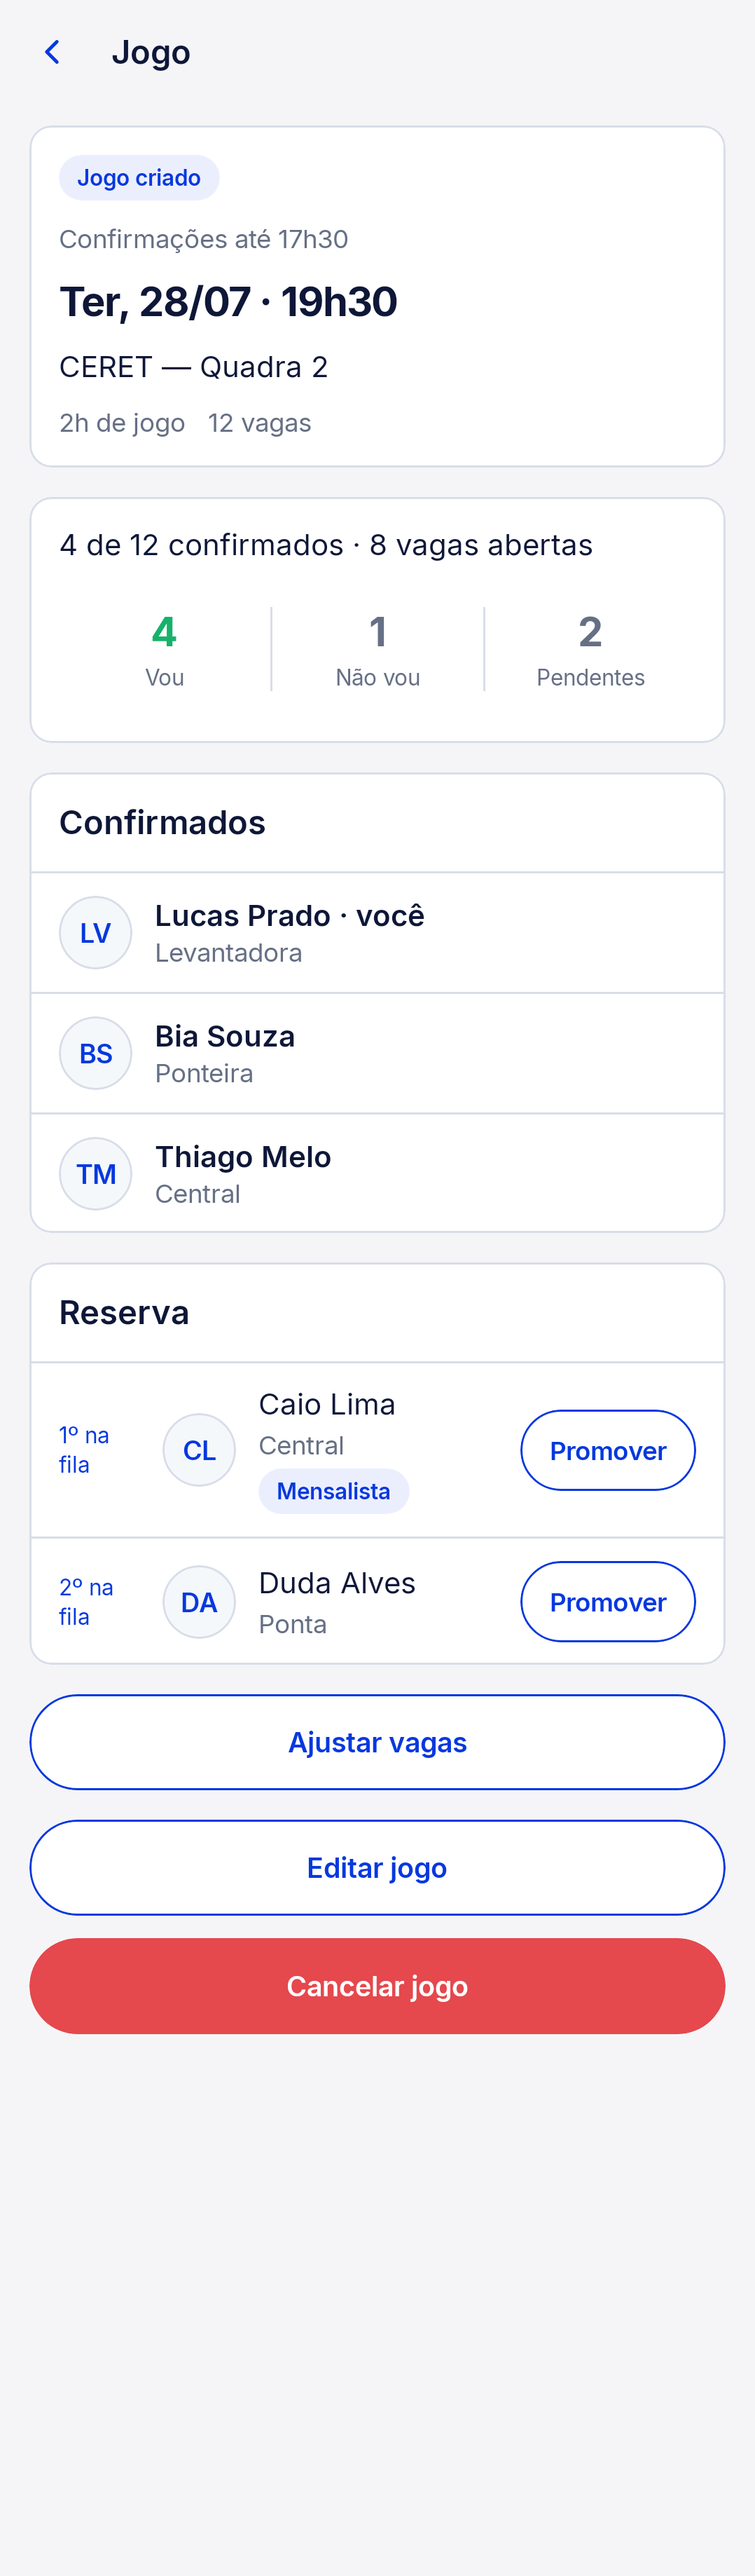
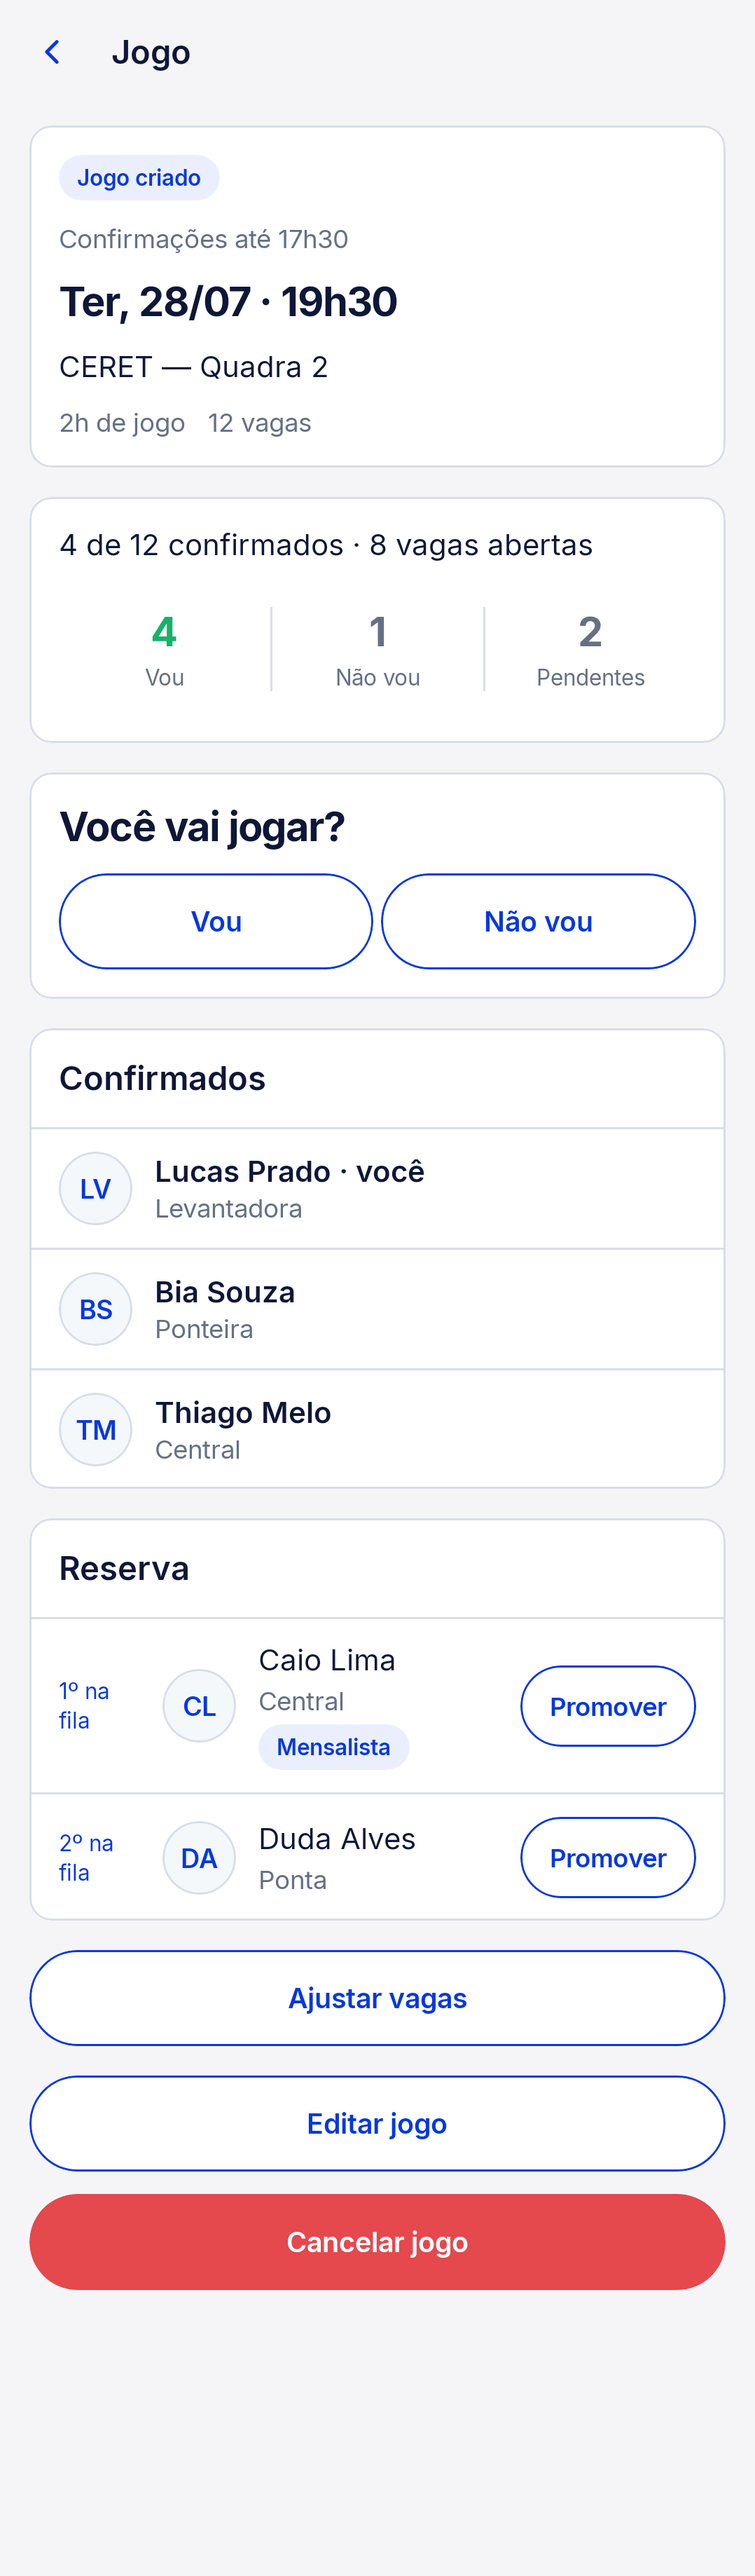
fix(groups): finalizar integração da resposta do membro (VUL-159)
Corrige os avisos de detekt e consolida os snapshots após integrar a reserva do VUL-158.

🤖 Generated with Codex

diff --git a/mobile/features/groups/data/src/commonTest/kotlin/br/com/saqz/groups/data/attendance/KtorAttendanceGatewayTest.kt b/mobile/features/groups/data/src/commonTest/kotlin/br/com/saqz/groups/data/attendance/KtorAttendanceGatewayTest.kt
@@ -120,24 +120,6 @@ class KtorAttendanceGatewayTest {
     }
 
     @Test
-    fun `roster uses exact route and preserves backend order`() = runTest {
-        val result = gateway { request ->
-            assertEquals(HttpMethod.Get, request.method)
-            assertEquals(
-                "/api/groups/group-1/games/game-1/attendance/roster",
-                request.url.encodedPath,
-            )
-            rosterResponse()
-        }.roster(GROUP, GAME)
-
-        val roster = assertIs<SaqzResult.Success<*>>(result).value as
-            br.com.saqz.groups.domain.attendance.AttendanceRoster
-        assertEquals(listOf("confirmed-1"), roster.confirmed.map { it.memberId })
-        assertEquals(listOf("waiting-2", "waiting-1"), roster.waitlisted.map { it.memberId })
-        assertEquals(listOf(2L, 1L), roster.waitlisted.map { it.waitlistPosition })
-    }
-
-    @Test
     fun `auto confirmation uses own member route and enabled body`() = runTest {
         val result = gateway { request ->
             assertEquals(HttpMethod.Put, request.method)
@@ -442,9 +424,6 @@ class KtorAttendanceGatewayTest {
     private fun MockRequestHandleScope.capacityResponse(etag: String = "\"8\"") =
         respond(CAPACITY_JSON, headers = versionedHeaders(etag))
 
-    private fun MockRequestHandleScope.rosterResponse() =
-        respond(ROSTER_JSON, headers = jsonHeaders())
-
     private fun MockRequestHandleScope.autoConfirmationResponse(enabled: Boolean = true) =
         respond("{\"enabled\":$enabled}", headers = jsonHeaders())
 
@@ -482,6 +461,5 @@ class KtorAttendanceGatewayTest {
         const val DETAIL_WITHOUT_OWN = """{"confirmedCount":3,"availableSpots":21,"waitlistCount":2,"capacity":24}"""
         const val MUTATION_JSON = """{"attendance":{"memberId":"member-1","status":"CONFIRMED","version":8},"audit":{"actorId":"organizer-1","source":"ORGANIZER_OVERRIDE","oldStatus":"WAITLISTED","newStatus":"CONFIRMED","reason":"Correção","occurredAt":"2026-08-12T22:30:00Z"},"promotedCount":2,"detail":{"ownAttendance":{"memberId":"member-1","status":"CONFIRMED","version":8},"confirmedCount":4,"availableSpots":20,"waitlistCount":1,"capacity":24}}"""
         const val CAPACITY_JSON = """{"capacity":30,"version":8,"promotedCount":2,"detail":{"confirmedCount":4,"availableSpots":26,"waitlistCount":0,"capacity":30}}"""
-        const val ROSTER_JSON = """{"confirmed":[{"memberId":"confirmed-1","displayName":"Ana","waitlistPosition":null}],"waitlisted":[{"memberId":"waiting-2","displayName":"Bia","waitlistPosition":2},{"memberId":"waiting-1","displayName":"Caio","waitlistPosition":1}]}"""
     }
 }

diff --git a/mobile/features/groups/presentation/src/commonMain/kotlin/br/com/saqz/groups/presentation/ui/gamedetail/GameResponseSection.kt b/mobile/features/groups/presentation/src/commonMain/kotlin/br/com/saqz/groups/presentation/ui/gamedetail/GameResponseSection.kt
@@ -45,7 +45,7 @@ internal object GameResponseTags {
 internal fun GameResponseSection(
     state: GameDetailState,
     onRespond: (AttendanceIntent) -> Unit,
-    onAutoConfirmationChanged: (Boolean) -> Unit,
+    onAutoConfirmationChange: (Boolean) -> Unit,
     modifier: Modifier = Modifier,
 ) {
     val metrics = SaqzTheme.metrics
@@ -86,7 +86,7 @@ internal fun GameResponseSection(
                 loading = state.responding && response?.status == GameDetailResponseStatus.Declined,
             )
         }
-        responseFeedback(response)
+        ResponseFeedback(response)
         if (!state.header?.confirmationOpen.orFalse()) {
             Text(
                 text = stringResource(Res.string.game_response_deadline_closed),
@@ -111,7 +111,7 @@ internal fun GameResponseSection(
         if (state.autoConfirmationVisible) {
             SaqzSwitch(
                 checked = state.autoConfirmationEnabled,
-                onCheckedChange = onAutoConfirmationChanged,
+                onCheckedChange = onAutoConfirmationChange,
                 modifier = Modifier
                     .fillMaxWidth()
                     .padding(top = metrics.subGrid)
@@ -131,7 +131,7 @@ internal fun GameResponseSection(
 }
 
 @Composable
-private fun responseFeedback(response: GameDetailResponseUi?) {
+private fun ResponseFeedback(response: GameDetailResponseUi?) {
     val text = when (response?.status) {
         GameDetailResponseStatus.Confirmed -> stringResource(Res.string.game_response_confirmed)
         GameDetailResponseStatus.Declined -> stringResource(Res.string.game_response_declined)

diff --git a/mobile/features/groups/presentation/src/commonMain/kotlin/br/com/saqz/groups/presentation/ui/gamedetail/GameDetailScreen.kt b/mobile/features/groups/presentation/src/commonMain/kotlin/br/com/saqz/groups/presentation/ui/gamedetail/GameDetailScreen.kt
@@ -101,7 +101,7 @@ internal fun GameDetailScreen(
                         GameResponseSection(
                             state = state,
                             onRespond = { onIntent(GameDetailIntent.Respond(it)) },
-                            onAutoConfirmationChanged = {
+                            onAutoConfirmationChange = {
                                 onIntent(GameDetailIntent.ToggleAutoConfirmation(it))
                             },
                         )

diff --git a/mobile/features/groups/presentation/src/androidHostTest/kotlin/br/com/saqz/groups/presentation/ui/gamedetail/GameDetailScreenshotTest.kt b/mobile/features/groups/presentation/src/androidHostTest/kotlin/br/com/saqz/groups/presentation/ui/gamedetail/GameDetailScreenshotTest.kt
@@ -31,6 +31,7 @@ import org.robolectric.annotation.GraphicsMode
     qualifiers = RobolectricDeviceQualifiers.Pixel7,
     application = Application::class,
 )
+@Suppress("TooManyFunctions")
 class GameDetailScreenshotTest {
     @get:Rule
     val compose = createComposeRule()

diff --git a/mobile/features/groups/presentation/src/commonMain/kotlin/br/com/saqz/groups/presentation/gamedetail/GameDetailViewModel.kt b/mobile/features/groups/presentation/src/commonMain/kotlin/br/com/saqz/groups/presentation/gamedetail/GameDetailViewModel.kt
@@ -44,6 +44,7 @@ import kotlin.uuid.ExperimentalUuidApi
 import kotlin.uuid.Uuid
 
 @OptIn(ExperimentalUuidApi::class)
+@Suppress("LargeClass")
 class GameDetailViewModel(
     val groupId: String,
     val gameId: String,
